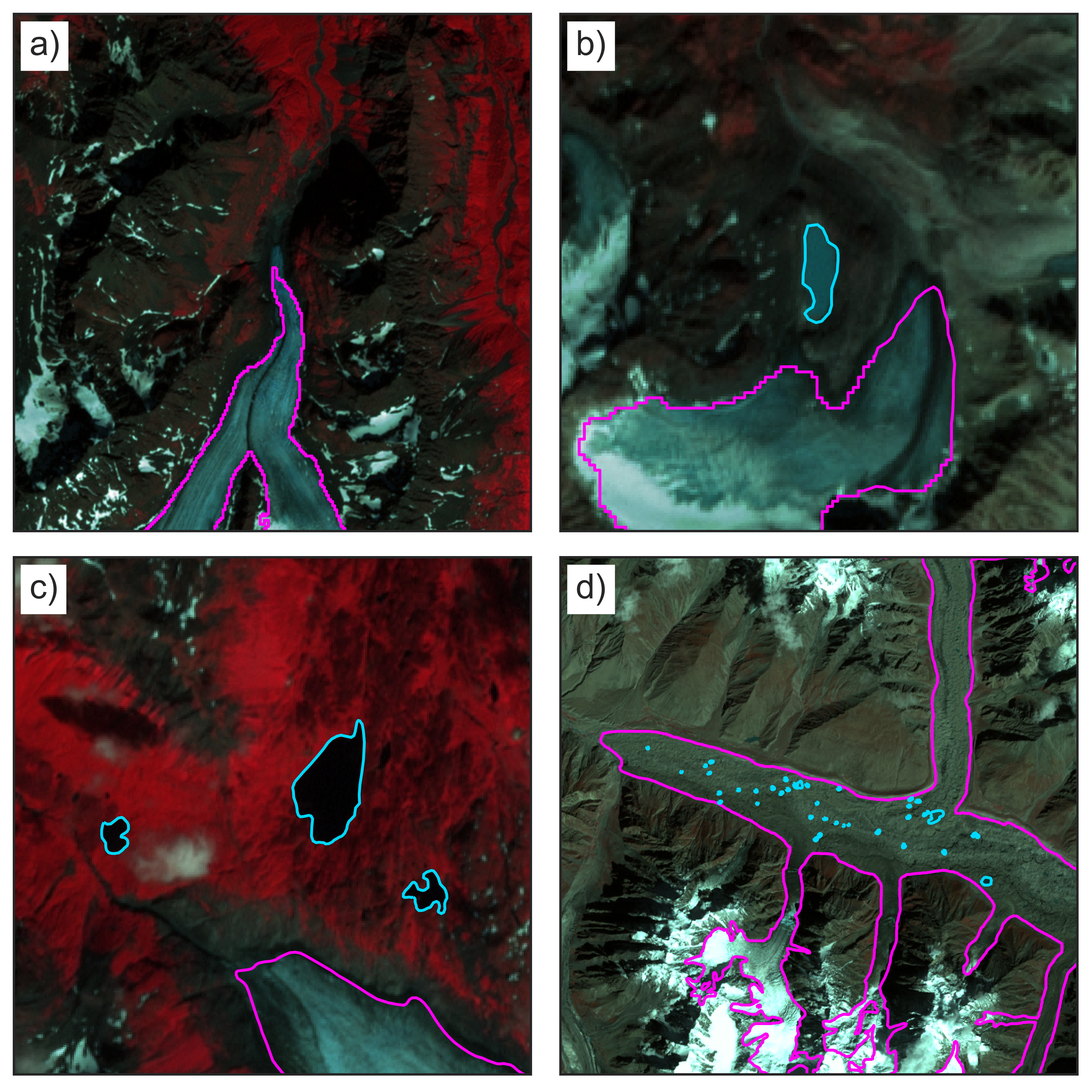
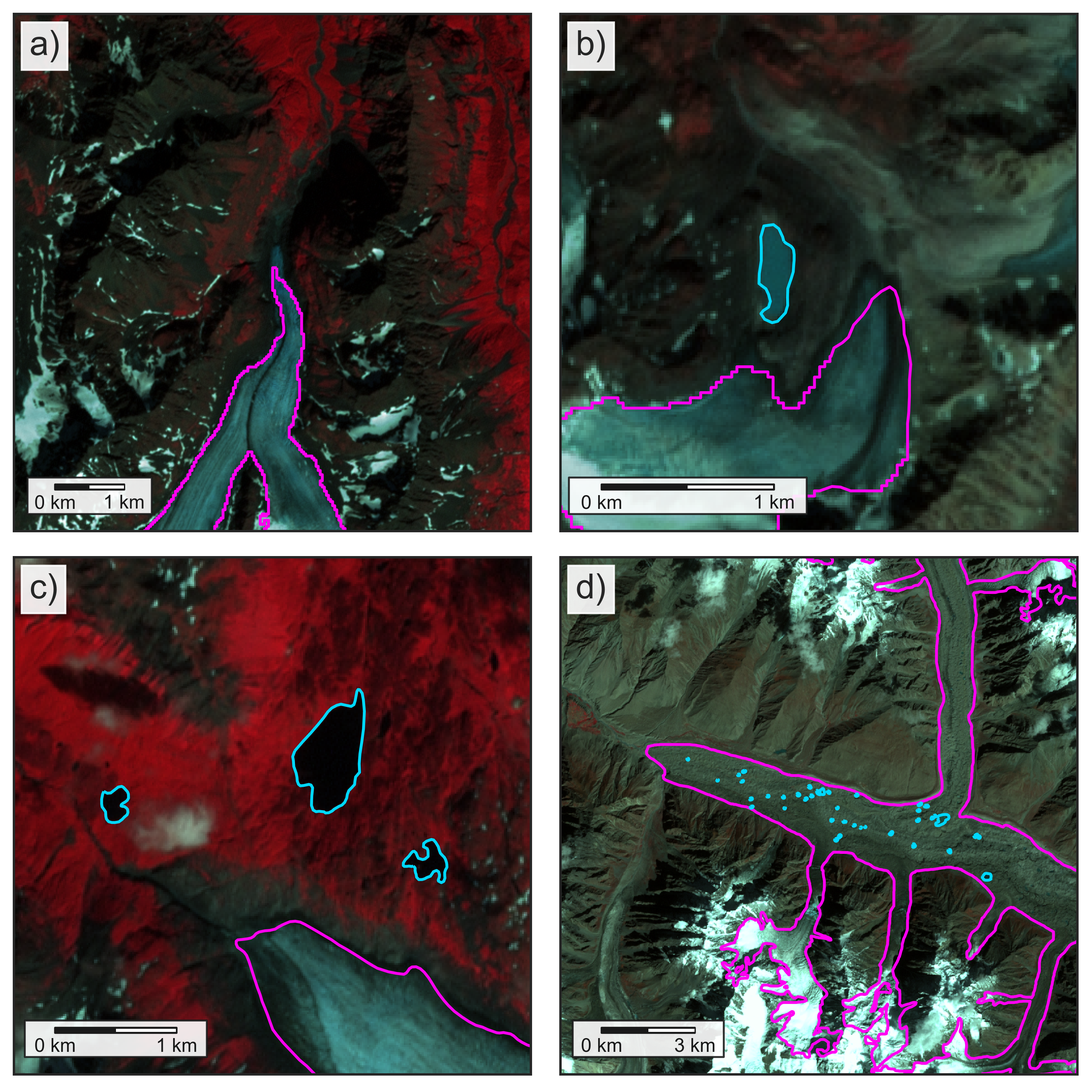
add scale bar to individual panels

diff --git a/essd/scripts/Fig1-4_LevelExamples.py b/essd/scripts/Fig1-4_LevelExamples.py
@@ -1,5 +1,6 @@
 from pathlib import Path
 import matplotlib.pyplot as plt
+from matplotlib import patches, collections
 import numpy as np
 import pandas as pd
 import geopandas as gpd
@@ -15,6 +16,59 @@ def stretch_img(img, vmin, vmax):
         stretch[b] = (stretch[b] - vn) / (vx - vn)
 
     return stretch
+
+def add_bbox(ax, bar, ann):
+    left, right = ann
+
+    bbox_left = ax.transData.inverted().transform(left.get_window_extent())
+    bbox_right = ax.transData.inverted().transform(right.get_window_extent())
+
+    text_bot = min(bbox_left[:, 1].tolist() + bbox_right[:, 1].tolist())
+    bar_top = bar.xy[1] + bar.get_height()
+
+    text_left = min(bbox_left[:, 0])
+    text_right = max(bbox_right[:, 0])
+
+    width = text_right - text_left
+    height = bar_top - text_bot
+
+    bbox = patches.Rectangle((text_left - 0.05 * width, text_bot - 0.05 * height), 1.1*width, 1.3*height,
+                             facecolor='w', edgecolor='k', alpha=0.9, capstyle='round', zorder=2.5)
+
+    return bbox
+
+
+def add_scalebar(ax):
+    xmin, xmax = ax.get_xlim()
+    ymin, ymax = ax.get_ylim()
+
+    xscale = xmax - xmin
+    yscale = ymax - ymin
+
+    sb_length = max(np.floor(0.2 * xscale / 1000), 1) * 1000
+
+    sbx = xmin + xscale * 0.08
+    sby = ymin + yscale * 0.08
+
+    hfact = 0.01 # 1% of the axis extent
+    pad = 0.4
+
+    # create the background box
+    left = ax.text(sbx, sby - 0.01 * yscale, '0 km',
+                   va='top', ha='center', size=10, color='k', zorder=2.5)
+    right = ax.text(sbx + sb_length, sby - 0.01 * yscale, f"{int(sb_length / 1000)} km",
+                    va='top', ha='center', size=10, color='k', zorder=2.5)
+
+    full_bar = patches.Rectangle((sbx, sby), sb_length, hfact * yscale, color='k')
+    half_bar = patches.Rectangle((sbx + 0.5 * sb_length, sby + pad/2 * hfact * yscale),
+                                 0.495 * sb_length, (1-pad) * hfact * yscale, facecolor='w', edgecolor='none')
+
+    bbox = add_bbox(ax, full_bar, (left, right))
+    scalebar = collections.PatchCollection([bbox, full_bar, half_bar], match_original=True, zorder=2.5)
+    ax.add_collection(scalebar)
+
+    left.set_zorder(10)
+    right.set_zorder(10)
 
 
 sns.set_theme(font_scale=1.5, style="white")
@@ -47,8 +101,9 @@ for num, level in enumerate([1, 2, 3, 0]):
         term = termini.to_crs(img.crs).loc[glac, :]
         these_lakes = lakes.to_crs(img.crs).loc[lakes['rgi_id'] == glac]
         if len(these_lakes) > 0:
-            cx, cy = these_lakes.union_all().envelope.centroid.x, these_lakes.union_all().envelope.centroid.y
-            minx, miny, maxx, maxy = these_lakes.union_all().bounds
+            geom = gpd.GeoSeries(these_lakes['geometry'].to_list() + [term['geometry']]).union_all()
+            cx, cy = geom.envelope.centroid.x, geom.envelope.centroid.y
+            minx, miny, maxx, maxy = geom.bounds
 
             # use the larger of the envelope of all the lakes, or 2 km
             scale = max(2000, max(maxx - minx, maxy - miny))
@@ -65,6 +120,8 @@ for num, level in enumerate([1, 2, 3, 0]):
         stretched = stretch_img(img, [0.008, 0.017, 0.031], [0.75, 0.50, 0.53])
         stretched.plot(ax=axdict[glac], add_cbar=False)
 
+        add_scalebar(axdict[glac])
+
         # plot the glacier outline
         gpd.GeoDataFrame([glacier]).boundary.plot(ax=axdict[glac], color='#ff00f0')
 
@@ -78,11 +135,10 @@ for num, level in enumerate([1, 2, 3, 0]):
         axdict[glac].set_xticks([])
         axdict[glac].set_yticks([])
 
-
     ax1, ax2, ax3, ax4 = axs.flatten()
 
     label_loc = (0.03, 0.92)
-    bbox = dict(fc="w")
+    bbox = dict(fc="w", alpha=0.9)
     for lab, ax in zip('abcd', axs.flatten()):
         ax.annotate(f"{lab})", label_loc, xycoords='axes fraction', bbox=bbox)
 
